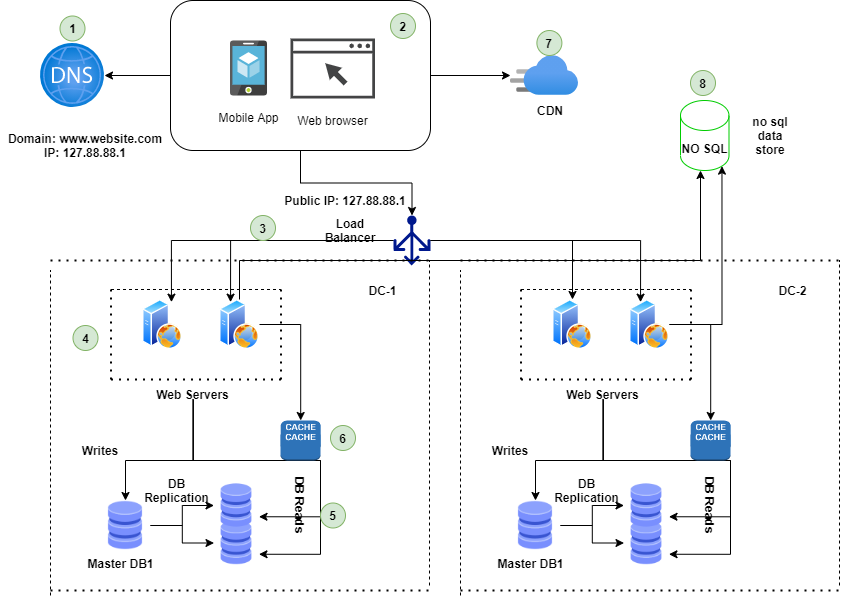
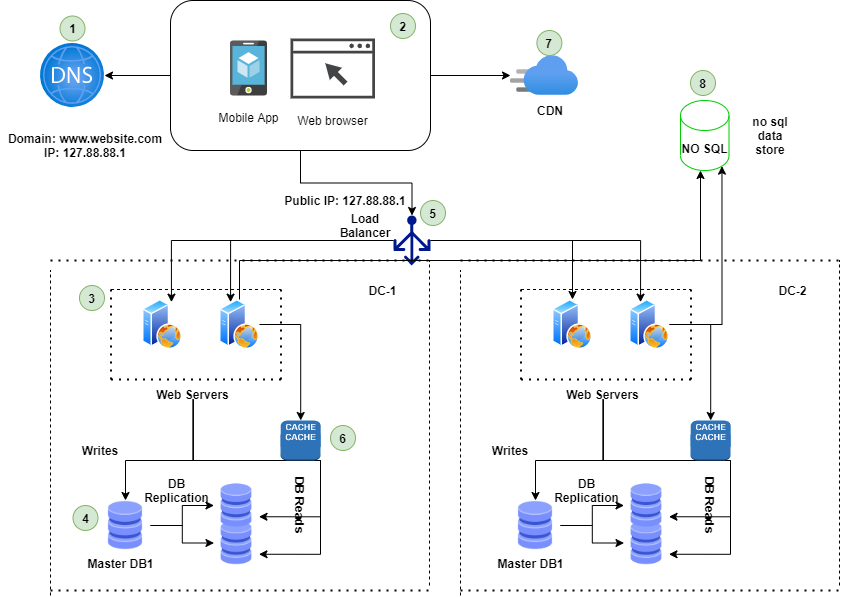
documents

diff --git a/SystemDesign/MillionUserApplication.md b/SystemDesign/MillionUserApplication.md
@@ -6,3 +6,31 @@ For an Application to scale for million Users need some specific design principl
 ## System Design:
 
 ![alt text](https://github.com/drdcs/simple_algo/blob/main/images/scaleWebsite.png?raw=true)
+
+### 1
+
+Internet protocol (IP) address is returned to the browser/app, while user access the website through domain names.Usually Domain Name System (DNS) is the 3rd party service which is not hosted in our server.Once IP address is obtained , HTTP request directly sent to the webserver.
+
+
+### 2
+
+Web Application - Desktop or Mobile Applications have 2 parts. Server side language and client side language. Client side is basically HTML, JS which shows the page layout, structure of website or more of a presentation layer.
+
+
+### 3
+
+Web Servers -  All the client request sent to the Web Server. All Web Servers return HTML pages or JSON response for rendering.The Server side is the actual logic which powers the application fundamentals, like APIs.
+/GET /users, /POST /users etc .. 
+
+Response Lokks Something Like below:
+```json
+{
+    "cityId": 1,
+    "cityName": "San Francisco",
+    "address":{
+        "streetName": "1001 National Ave",
+        "postalCode": "600032"
+    }
+}
+```
+
